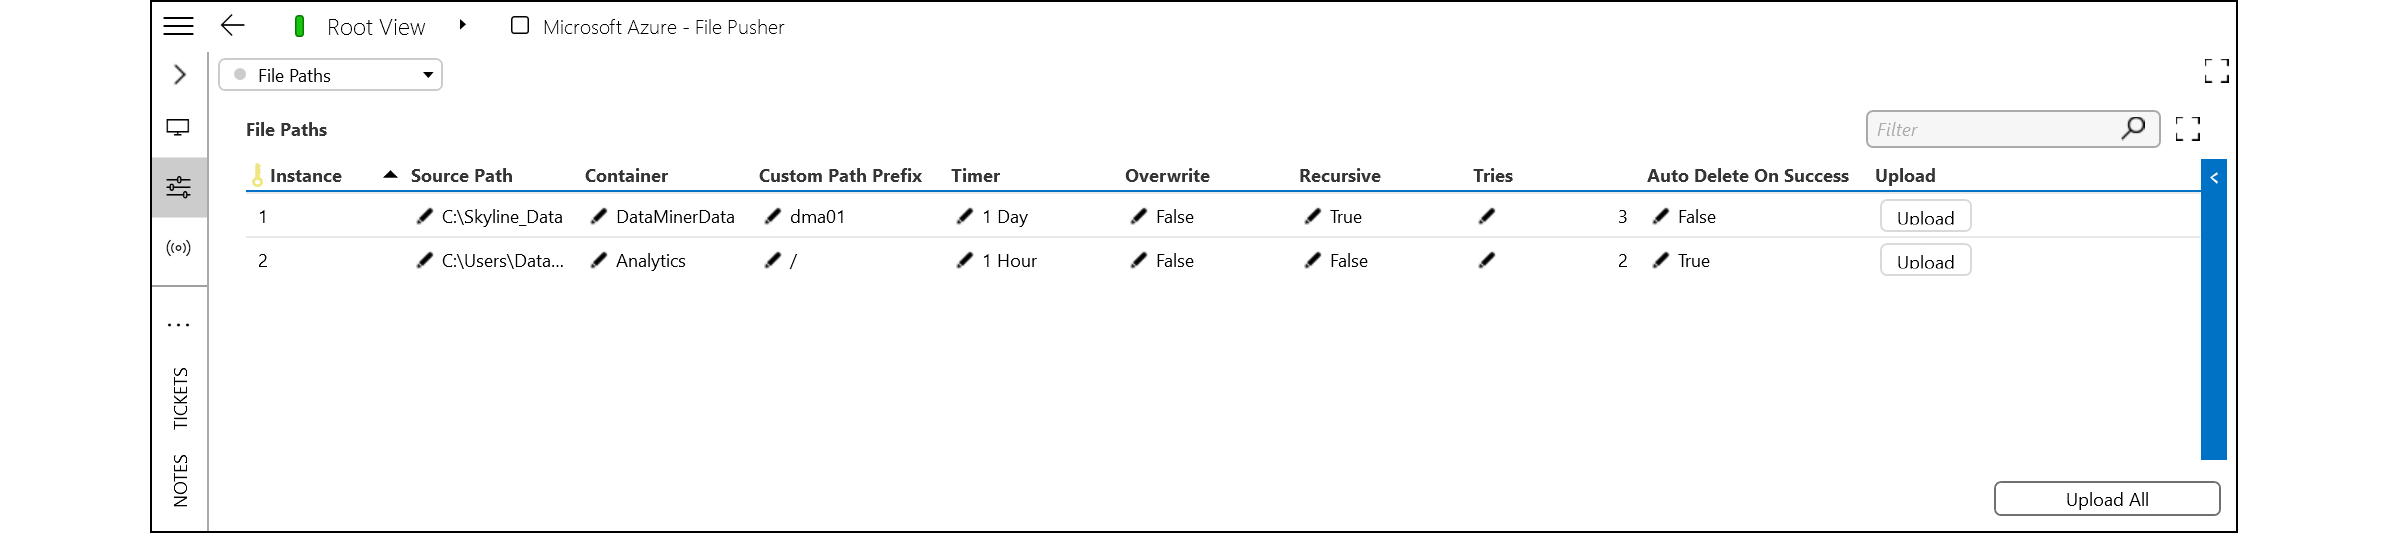
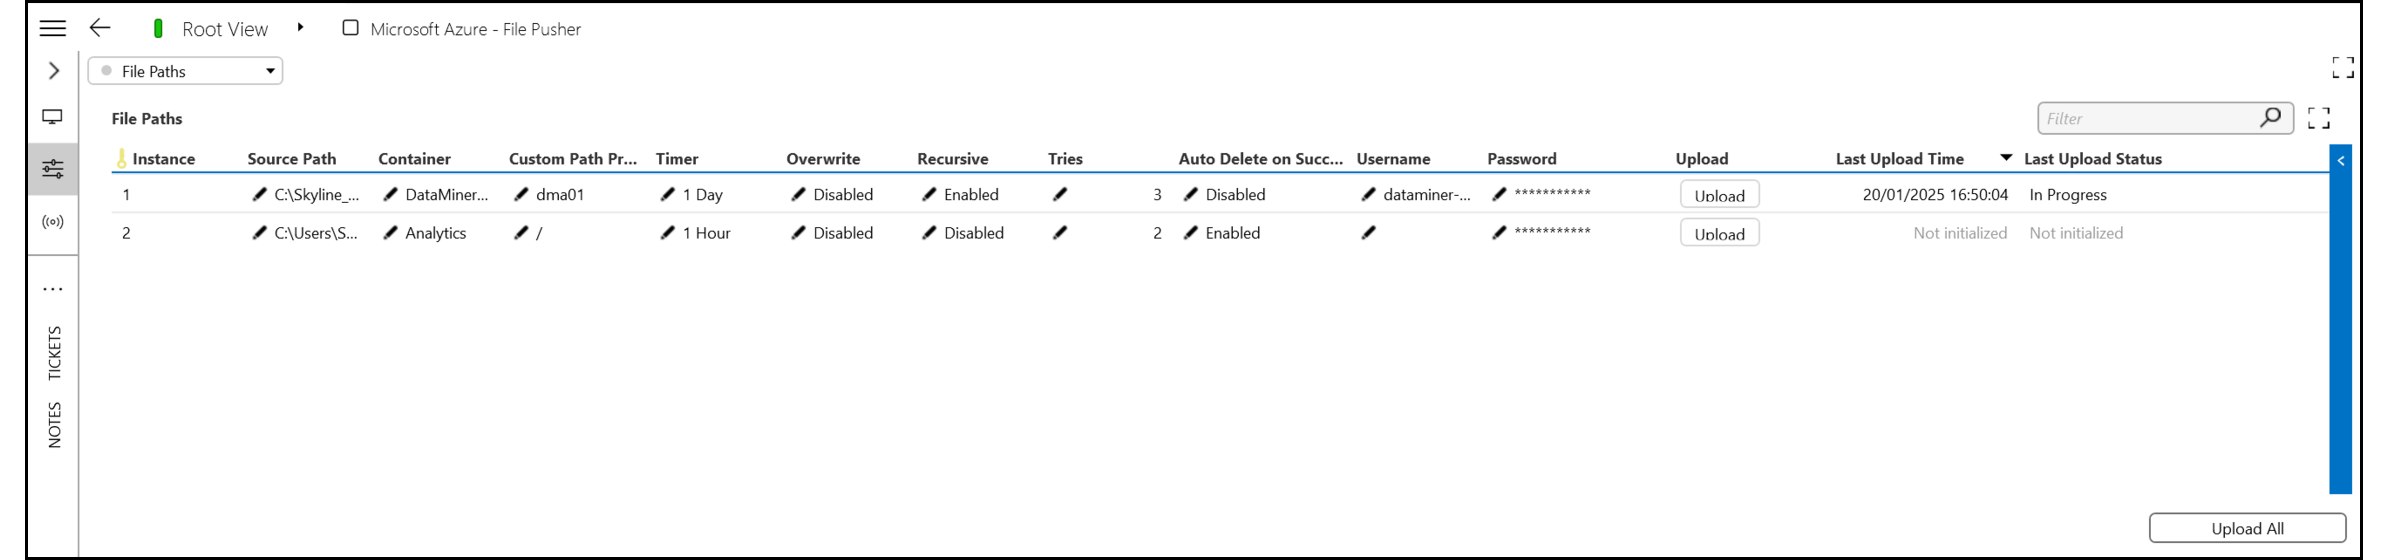
Updated Azure file pusher documentation

diff --git a/connector/doc/Microsoft_Azure_-_File_Pusher_Technical.md b/connector/doc/Microsoft_Azure_-_File_Pusher_Technical.md
@@ -2,7 +2,7 @@
 uid: Connector_help_Microsoft_Azure_-_File_Pusher_Technical_Page
 ---
 
-# Microsoft Azure - Storage Accounts
+# Microsoft Azure - File Pusher
 
 The Azure File Pusher connector is used to automate file synchronization from local storage to Azure Blob Storage.
 
@@ -36,6 +36,12 @@ On the **General** page, the authentication parameters and storage URL should be
 - **Blob Storage URL**: The endpoint used to access resources within an Azure Storage account (e.g. `https://dataminer.blob.core.windows.net`).
 
 The **Test Authentication** button can be used to test whether the provided credentials can retrieve the valid token used to access the blob storage. The **Authentication Test** parameter will indicate whether the authentication test was successful (*OK*) or unsuccessful (*Error*).
+
+### Configuration Page
+
+To ensure that file uploads do not get stuck indefinitely, we have implemented a safety measure. On the configuration page, you have the option to set parameters that will automatically terminate an upload if certain conditions are met. 
+Specifically, you can configure the system to terminate uploads after a specified number of **failures** or after a certain **duration (in minutes)**. 
+This helps maintain the efficiency and reliability of the upload process by preventing prolonged or failed uploads from consuming resources unnecessarily.
 
 ### File Paths Page
 

diff --git a/connector/doc/Microsoft_Azure_-_File_Pusher.md b/connector/doc/Microsoft_Azure_-_File_Pusher.md
@@ -10,6 +10,8 @@ uid: Connector_help_Microsoft_Azure_-_File_Pusher
 
 Credentials for authentication are securely stored within the collector and used every time files are uploaded.
 
+As a safety measure to prevent file uploads from getting stuck, you can configure the number of failures or the duration after which the upload will be terminated on the configuration page.
+
 You can configure multiple file path combinations, each with dedicated upload settings, allowing flexible file transfers to the Azure Blob Storage that best fits your use case.
 
 > [!TIP]
@@ -22,6 +24,10 @@ You can configure multiple file path combinations, each with dedicated upload se
   ![General Page](~/connector/images/MicrosoftAzure_FilePusher_General_Page.png)
 
 - Manage file path combinations and their configurations in the File Paths table.
+
+  ![General Page](~/connector/images/MicrosoftAzure_FilePusher_Configuration_Page.png)
+
+- Set the number of failures or the duration (in minutes) after which uploads will be terminated and considered failed..
 
   ![File Paths Page](~/connector/images/MicrosoftAzure_FilePusher_FilePaths_Page.png)
 
